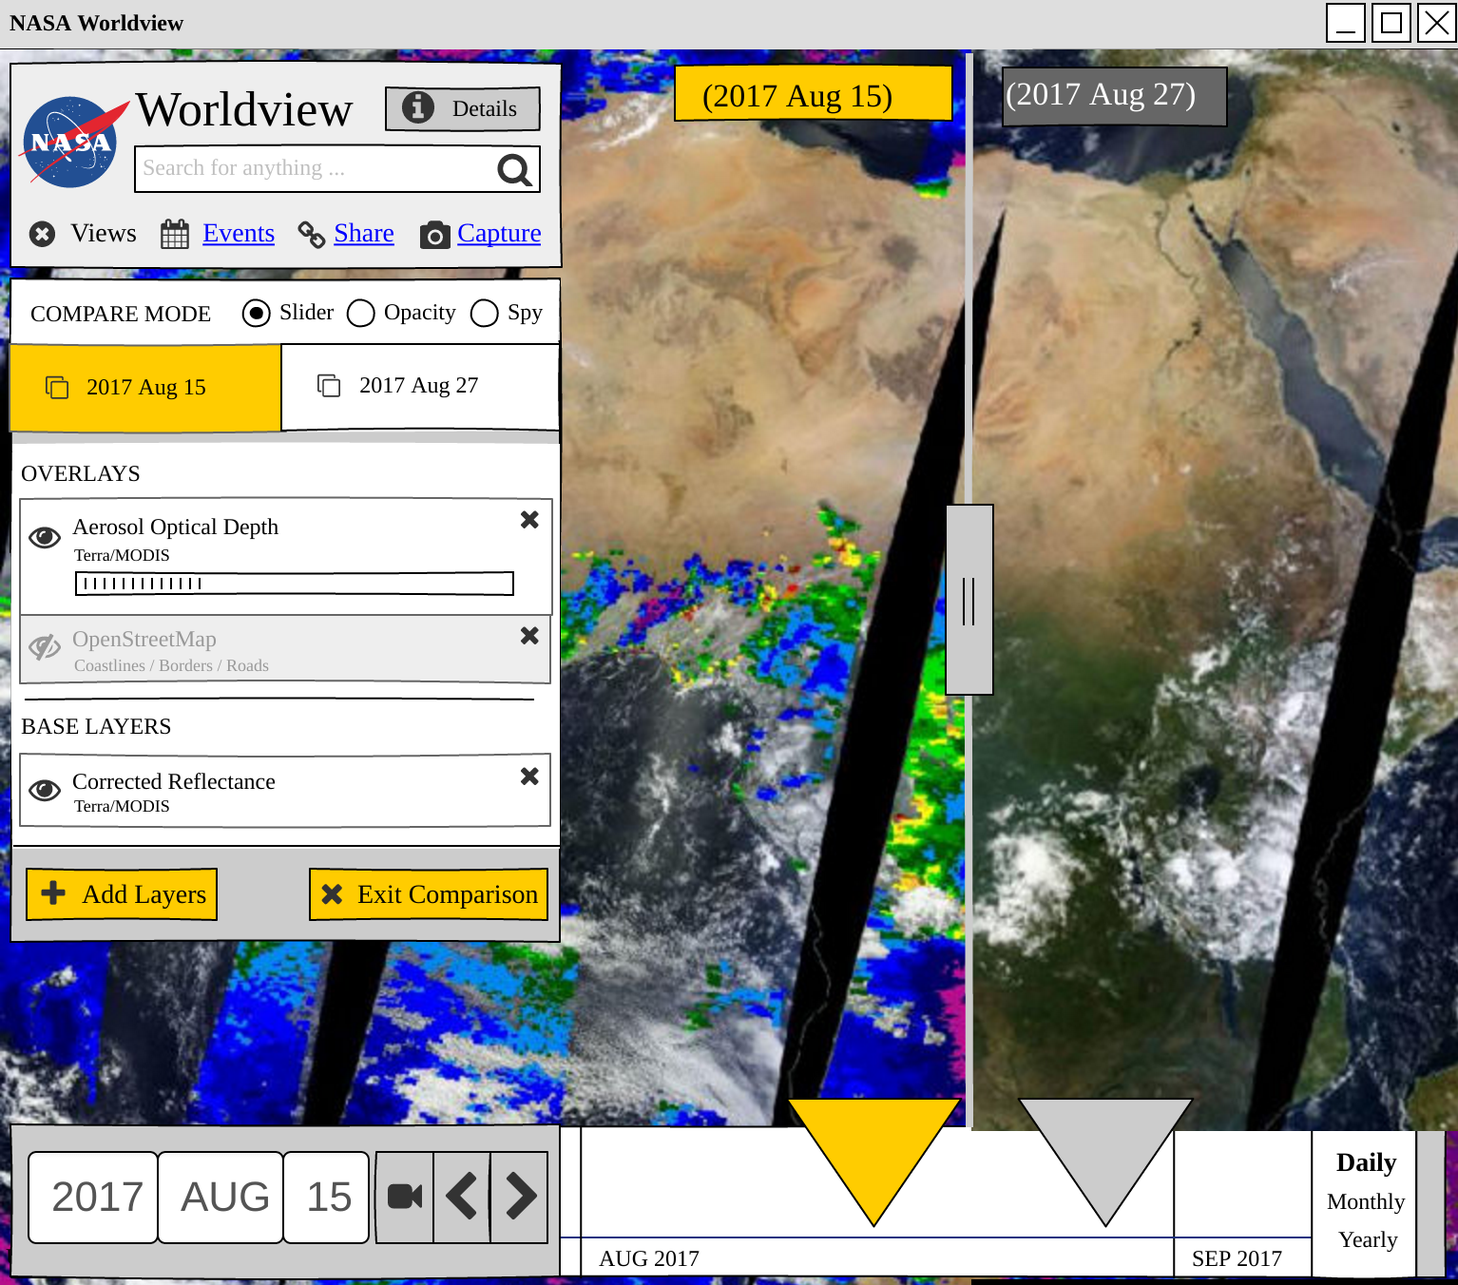
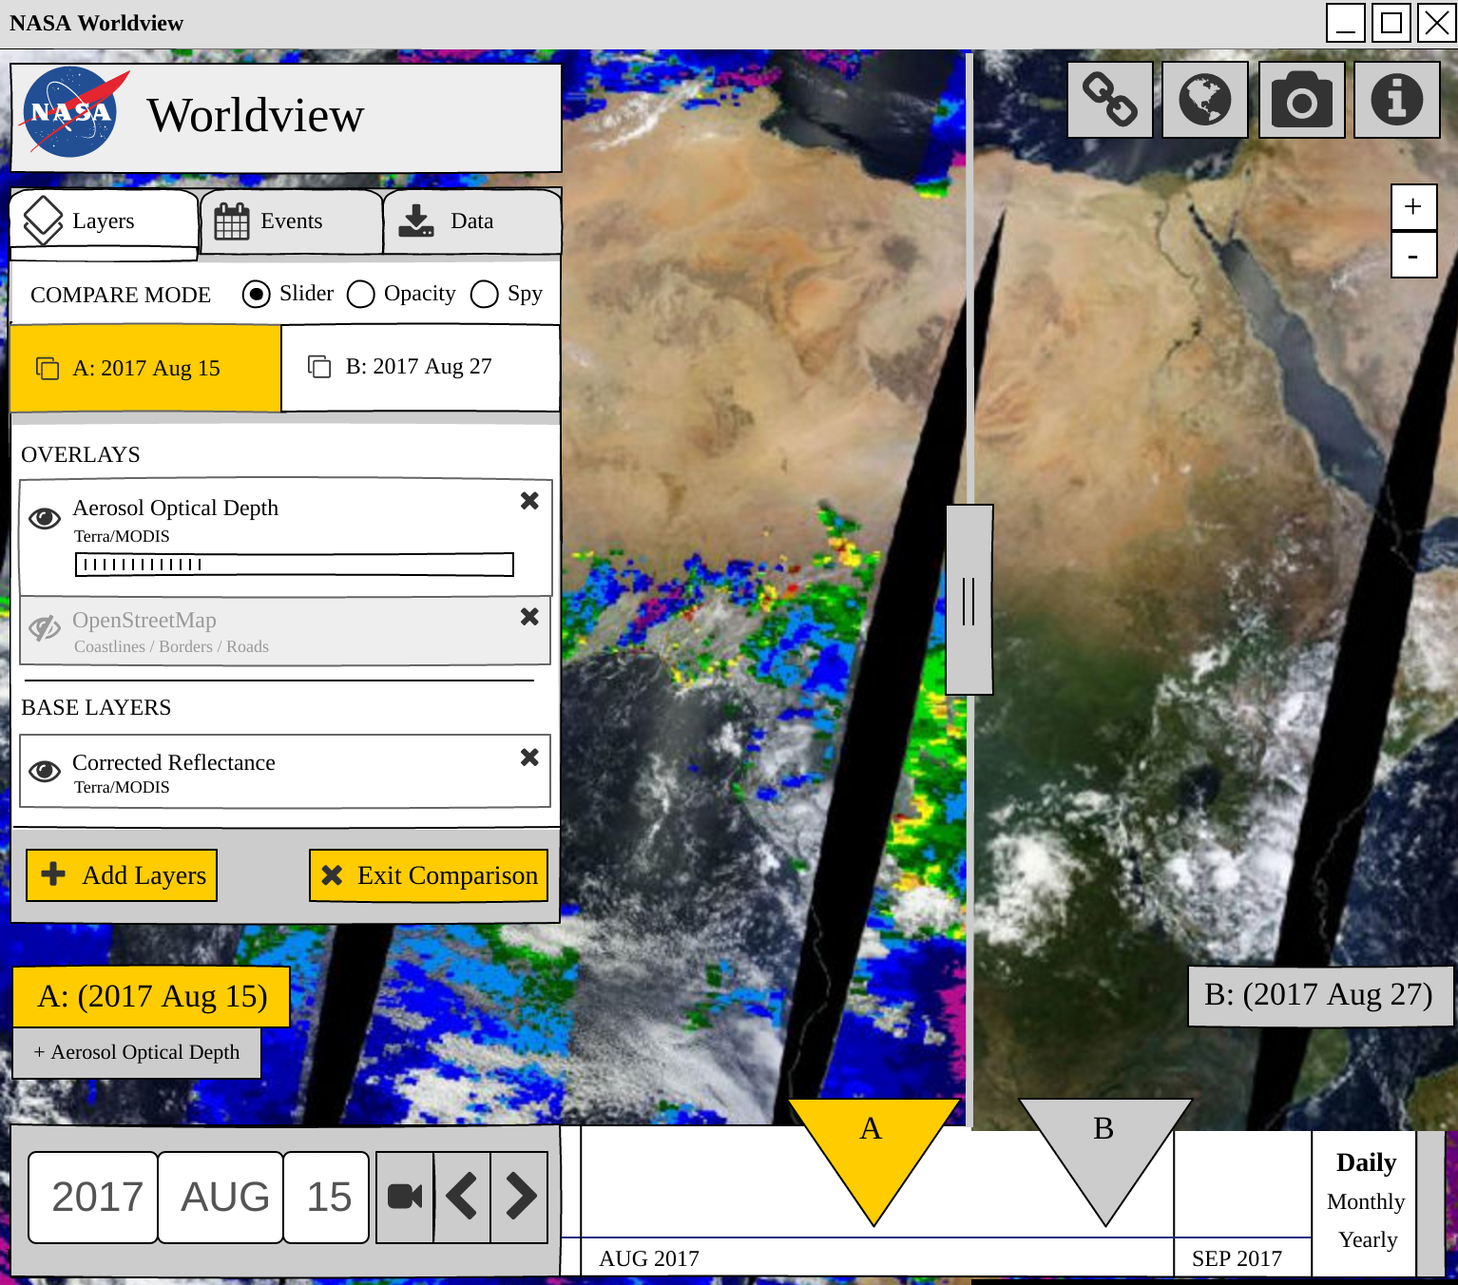
Update prototype to be viewed with current Worldview Interface

diff --git a/index.html b/index.html
@@ -1,19 +1,25 @@
-<!DOCTYPE html PUBLIC "-//W3C//DTD XHTML 1.0 Strict//EN" "DTD/xhtml1-strict.dtd"><html xmlns="http://www.w3.org/1999/xhtml" xmlns:p="http://www.evolus.vn/Namespace/Pencil" xmlns:html="http://www.w3.org/1999/xhtml"><head><meta http-equiv="Content-Type" content="text/html; charset=ISO-8859-1" /><title>wv-4</title><link rel="stylesheet" type="text/css" href="Resources/Style.css" /> </head><body><div id="leftpanel"><div class="ThumbContainer"><a href="#new_default_page" title="Go to page 'New Default'"><img src="pages/new_default.png" /><hr /><span class="number">1/9</span> -
-                                    New Default</a></div><div class="ThumbContainer"><a href="#new_page" title="Go to page 'New'"><img src="pages/new.png" /><hr /><span class="number">2/9</span> -
-                                    New</a></div><div class="ThumbContainer"><a href="#new_2_page" title="Go to page 'New 2'"><img src="pages/new_2.png" /><hr /><span class="number">3/9</span> -
-                                    New 2</a></div><div class="ThumbContainer"><a href="#new_opacity_page" title="Go to page 'New Opacity'"><img src="pages/new_opacity.png" /><hr /><span class="number">4/9</span> -
-                                    New Opacity</a></div><div class="ThumbContainer"><a href="#new_faded_page" title="Go to page 'New Faded'"><img src="pages/new_faded.png" /><hr /><span class="number">5/9</span> -
-                                    New Faded</a></div><div class="ThumbContainer"><a href="#new_faded_all_page" title="Go to page 'New Faded all'"><img src="pages/new_faded_all.png" /><hr /><span class="number">6/9</span> -
-                                    New Faded all</a></div><div class="ThumbContainer"><a href="#new_opacity_2_page" title="Go to page 'New Opacity 2'"><img src="pages/new_opacity_2.png" /><hr /><span class="number">7/9</span> -
-                                    New Opacity 2</a></div><div class="ThumbContainer"><a href="#new_2_default_page" title="Go to page 'New 2 Default'"><img src="pages/new_2_default.png" /><hr /><span class="number">8/9</span> -
-                                    New 2 Default</a></div><div class="ThumbContainer"><a href="#view2_proj_page" title="Go to page 'View2 Proj'"><img src="pages/view2_proj.png" /><hr /><span class="number">9/9</span> -
+<!DOCTYPE html PUBLIC "-//W3C//DTD XHTML 1.0 Strict//EN" "DTD/xhtml1-strict.dtd"><html xmlns="http://www.w3.org/1999/xhtml" xmlns:p="http://www.evolus.vn/Namespace/Pencil" xmlns:html="http://www.w3.org/1999/xhtml"><head><meta http-equiv="Content-Type" content="text/html; charset=ISO-8859-1" /><title>wv-4</title><link rel="stylesheet" type="text/css" href="Resources/Style.css" /> </head><body><div id="leftpanel"><div class="ThumbContainer"><a href="#new_default_page" title="Go to page 'New Default'"><img src="pages/new_default.png" /><hr /><span class="number">1/12</span> -
+                                    New Default</a></div><div class="ThumbContainer"><a href="#new_page" title="Go to page 'New'"><img src="pages/new.png" /><hr /><span class="number">2/12</span> -
+                                    New</a></div><div class="ThumbContainer"><a href="#new_2_page" title="Go to page 'New 2'"><img src="pages/new_2.png" /><hr /><span class="number">3/12</span> -
+                                    New 2</a></div><div class="ThumbContainer"><a href="#new_opacity_page" title="Go to page 'New Opacity'"><img src="pages/new_opacity.png" /><hr /><span class="number">4/12</span> -
+                                    New Opacity</a></div><div class="ThumbContainer"><a href="#new_faded_page" title="Go to page 'New Faded'"><img src="pages/new_faded.png" /><hr /><span class="number">5/12</span> -
+                                    New Faded</a></div><div class="ThumbContainer"><a href="#new_faded_all_page" title="Go to page 'New Faded all'"><img src="pages/new_faded_all.png" /><hr /><span class="number">6/12</span> -
+                                    New Faded all</a></div><div class="ThumbContainer"><a href="#new_opacity_2_page" title="Go to page 'New Opacity 2'"><img src="pages/new_opacity_2.png" /><hr /><span class="number">7/12</span> -
+                                    New Opacity 2</a></div><div class="ThumbContainer"><a href="#new_2_default_page" title="Go to page 'New 2 Default'"><img src="pages/new_2_default.png" /><hr /><span class="number">8/12</span> -
+                                    New 2 Default</a></div><div class="ThumbContainer"><a href="#new_2_split_default_page" title="Go to page 'New 2 Split Default'"><img src="pages/new_2_split_default.png" /><hr /><span class="number">9/12</span> -
+                                    New 2 Split Default</a></div><div class="ThumbContainer"><a href="#new_2_split_default_1_page" title="Go to page 'New 2 Split Default 1'"><img src="pages/new_2_split_default_1.png" /><hr /><span class="number">10/12</span> -
+                                    New 2 Split Default 1</a></div><div class="ThumbContainer"><a href="#new_2_default_1_page" title="Go to page 'New 2 Default (1)'"><img src="pages/new_2_default_1.png" /><hr /><span class="number">11/12</span> -
+                                    New 2 Default (1)</a></div><div class="ThumbContainer"><a href="#view2_proj_page" title="Go to page 'View2 Proj'"><img src="pages/view2_proj.png" /><hr /><span class="number">12/12</span> -
                                     View2 Proj</a></div></div><div id="main"><div class="Page" id="new_default_page"><div class="pageTitle">New Default<div class="MainNumber">
-                    Page 1/9</div></div><div class="ImageContainer"><img class="raster" style="max-width:767px" src="pages/new_default.png" usemap="#map_new_default" /></div><map name="map_new_default"><area shape="rect" coords="190,369,285,397" href="#new_page" title="Go to page 'New'" /></map></div><div class="Page" id="new_page"><div class="pageTitle">New<div class="MainNumber">
-                    Page 2/9</div></div><div class="ImageContainer"><img class="raster" style="max-width:767px" src="pages/new.png" usemap="#map_new" /></div><map name="map_new"><area shape="rect" coords="163,457,288,484" href="#new_default_page" title="Go to page 'New Default'" /><area shape="rect" coords="527.5,35.5,645.5,66.5" href="#new_2_page" title="Go to page 'New 2'" /><area shape="rect" coords="148,181,294.5,226.5" href="#new_2_page" title="Go to page 'New 2'" /><area shape="rect" coords="525.1636962890625,532.0986938476562,638.30078125,645.235778808594" href="#new_2_page" title="Go to page 'New 2'" /><area shape="rect" coords="182.50283813476562,157.3707733154297,239.984375,171.958038330078" href="#new_opacity_page" title="Go to page 'New Opacity'" /></map></div><div class="Page" id="new_2_page"><div class="pageTitle">New 2<div class="MainNumber">
-                    Page 3/9</div></div><div class="ImageContainer"><img class="raster" style="max-width:767px" src="pages/new_2.png" usemap="#map_new_2" /></div><map name="map_new_2"><area shape="rect" coords="163,396,288,425" href="#new_2_default_page" title="Go to page 'New 2 Default'" /><area shape="rect" coords="355,34.5,501,63.5" href="#new_page" title="Go to page 'New'" /><area shape="rect" coords="5,180,150.5,228" href="#new_page" title="Go to page 'New'" /><area shape="rect" coords="182.50283813476562,157.3707733154297,239.984375,171.958038330078" href="#new_opacity_2_page" title="Go to page 'New Opacity 2'" /><area shape="rect" coords="403.1636962890625,532.0986938476562,516.30078125,645.235778808594" href="#new_page" title="Go to page 'New'" /></map></div><div class="Page" id="new_opacity_page"><div class="pageTitle">New Opacity<div class="MainNumber">
-                    Page 4/9</div></div><div class="ImageContainer"><img class="raster" style="max-width:767px" src="pages/new_opacity.png" usemap="#map_new_opacity" /></div><map name="map_new_opacity"><area shape="rect" coords="619.5,498.5,649.5,532.5" href="#new_faded_all_page" title="Go to page 'New Faded all'" /><area shape="rect" coords="515.5,496.5,545.5,530.5" href="#new_faded_page" title="Go to page 'New Faded'" /><area shape="rect" coords="656,498,746,535" href="#new_opacity_2_page" title="Go to page 'New Opacity 2'" /><area shape="rect" coords="525.1636962890625,532.0986938476562,638.30078125,645.235778808594" href="#new_opacity_2_page" title="Go to page 'New Opacity 2'" /><area shape="rect" coords="163,457,288,485" href="#new_default_page" title="Go to page 'New Default'" /><area shape="rect" coords="148,181,294.5,227" href="#new_opacity_2_page" title="Go to page 'New Opacity 2'" /><area shape="rect" coords="127.50284576416016,157.3707733154297,175.65625,171.958038330078" href="#new_page" title="Go to page 'New'" /></map></div><div class="Page" id="new_faded_page"><div class="pageTitle">New Faded<div class="MainNumber">
-                    Page 5/9</div></div><div class="ImageContainer"><img class="raster" style="max-width:767px" src="pages/new_faded.png" usemap="#map_new_faded" /></div><map name="map_new_faded"><area shape="rect" coords="620.5,500.5,650.5,534.5" href="#new_faded_all_page" title="Go to page 'New Faded all'" /><area shape="rect" coords="425.5,500.5,455.5,534.5" href="#new_opacity_page" title="Go to page 'New Opacity'" /><area shape="rect" coords="525.1636962890625,532.0986938476562,638.30078125,645.235778808594" href="#new_opacity_2_page" title="Go to page 'New Opacity 2'" /><area shape="rect" coords="656,498,746,535" href="#new_opacity_2_page" title="Go to page 'New Opacity 2'" /><area shape="rect" coords="163,457,288,485" href="#new_default_page" title="Go to page 'New Default'" /><area shape="rect" coords="148,181,294.5,227" href="#new_opacity_2_page" title="Go to page 'New Opacity 2'" /><area shape="rect" coords="127.50284576416016,157.3707733154297,175.65625,171.958038330078" href="#new_page" title="Go to page 'New'" /></map></div><div class="Page" id="new_faded_all_page"><div class="pageTitle">New Faded all<div class="MainNumber">
-                    Page 6/9</div></div><div class="ImageContainer"><img class="raster" style="max-width:767px" src="pages/new_faded_all.png" usemap="#map_new_faded_all" /></div><map name="map_new_faded_all"><area shape="rect" coords="521.5,500.5,551.5,534.5" href="#new_faded_page" title="Go to page 'New Faded'" /><area shape="rect" coords="525.1636962890625,532.0986938476562,638.30078125,645.235778808594" href="#new_opacity_2_page" title="Go to page 'New Opacity 2'" /><area shape="rect" coords="425.5,500.5,455.5,534.5" href="#new_opacity_page" title="Go to page 'New Opacity'" /><area shape="rect" coords="656,498,746,535" href="#new_opacity_2_page" title="Go to page 'New Opacity 2'" /><area shape="rect" coords="163,457,288,485" href="#new_default_page" title="Go to page 'New Default'" /><area shape="rect" coords="148,181,294.5,227" href="#new_opacity_2_page" title="Go to page 'New Opacity 2'" /><area shape="rect" coords="127.50284576416016,157.3707733154297,175.65625,171.958038330078" href="#new_page" title="Go to page 'New'" /></map></div><div class="Page" id="new_opacity_2_page"><div class="pageTitle">New Opacity 2<div class="MainNumber">
-                    Page 7/9</div></div><div class="ImageContainer"><img class="raster" style="max-width:767px" src="pages/new_opacity_2.png" usemap="#map_new_opacity_2" /></div><map name="map_new_opacity_2"><area shape="rect" coords="163,397,288,425" href="#new_2_default_page" title="Go to page 'New 2 Default'" /><area shape="rect" coords="5,180,151,227" href="#new_opacity_page" title="Go to page 'New Opacity'" /><area shape="rect" coords="127.50284576416016,157.3707733154297,175.65625,171.958038330078" href="#new_2_page" title="Go to page 'New 2'" /><area shape="rect" coords="403.1636962890625,532.0986938476562,516.30078125,645.235778808594" href="#new_opacity_page" title="Go to page 'New Opacity'" /><area shape="rect" coords="525.1636962890625,532.0986938476562,638.30078125,645.235778808594" href="#new_2_page" title="Go to page 'New 2'" /><area shape="rect" coords="315,498,405,535" href="#new_opacity_page" title="Go to page 'New Opacity'" /></map></div><div class="Page" id="new_2_default_page"><div class="pageTitle">New 2 Default<div class="MainNumber">
-                    Page 8/9</div></div><div class="ImageContainer"><img class="raster" style="max-width:767px" src="pages/new_2_default.png" usemap="#map_new_2_default" /></div><map name="map_new_2_default"><area shape="rect" coords="190,311,285,339" href="#new_page" title="Go to page 'New'" /><area shape="rect" coords="525.1636962890625,532.0986938476562,638.30078125,645.235778808594" href="#new_2_page" title="Go to page 'New 2'" /></map></div><div class="Page" id="view2_proj_page"><div class="pageTitle">View2 Proj<div class="MainNumber">
-                    Page 9/9</div></div><div class="ImageContainer"><img class="raster" style="max-width:767px" src="pages/view2_proj.png" usemap="#map_view2_proj" /></div><map name="map_view2_proj"></map></div></div></body></html>
+                    Page 1/12</div></div><div class="ImageContainer"><img class="raster" style="max-width:767px" src="pages/new_default.png" usemap="#map_new_default" /></div><map name="map_new_default"><area shape="rect" coords="190,359,285,387" href="#new_page" title="Go to page 'New'" /></map></div><div class="Page" id="new_page"><div class="pageTitle">New<div class="MainNumber">
+                    Page 2/12</div></div><div class="ImageContainer"><img class="raster" style="max-width:767px" src="pages/new.png" usemap="#map_new" /></div><map name="map_new"><area shape="rect" coords="163,447,288,475" href="#new_default_page" title="Go to page 'New Default'" /><area shape="rect" coords="148,170,295,216.5" href="#new_2_page" title="Go to page 'New 2'" /><area shape="rect" coords="525.1636962890625,532.0986938476562,638.30078125,645.235778808594" href="#new_2_page" title="Go to page 'New 2'" /><area shape="rect" coords="182.50283813476562,147.3707733154297,239.984375,161.958038330078" href="#new_opacity_page" title="Go to page 'New Opacity'" /></map></div><div class="Page" id="new_2_page"><div class="pageTitle">New 2<div class="MainNumber">
+                    Page 3/12</div></div><div class="ImageContainer"><img class="raster" style="max-width:767px" src="pages/new_2.png" usemap="#map_new_2" /></div><map name="map_new_2"><area shape="rect" coords="163,387,288,414" href="#new_2_default_1_page" title="Go to page 'New 2 Default (1)'" /><area shape="rect" coords="5,170,150.5,217" href="#new_page" title="Go to page 'New'" /><area shape="rect" coords="182.50283813476562,147.3707733154297,239.984375,161.958038330078" href="#new_opacity_2_page" title="Go to page 'New Opacity 2'" /><area shape="rect" coords="403.1636962890625,532.0986938476562,516.30078125,645.235778808594" href="#new_page" title="Go to page 'New'" /></map></div><div class="Page" id="new_opacity_page"><div class="pageTitle">New Opacity<div class="MainNumber">
+                    Page 4/12</div></div><div class="ImageContainer"><img class="raster" style="max-width:767px" src="pages/new_opacity.png" usemap="#map_new_opacity" /></div><map name="map_new_opacity"><area shape="rect" coords="619.5,498.5,649.5,532.5" href="#new_faded_all_page" title="Go to page 'New Faded all'" /><area shape="rect" coords="515.5,496.5,545.5,530.5" href="#new_faded_page" title="Go to page 'New Faded'" /><area shape="rect" coords="656,499,746,535" href="#new_opacity_2_page" title="Go to page 'New Opacity 2'" /><area shape="rect" coords="525.1636962890625,532.0986938476562,638.30078125,645.235778808594" href="#new_opacity_2_page" title="Go to page 'New Opacity 2'" /><area shape="rect" coords="163,447,288,474" href="#new_default_page" title="Go to page 'New Default'" /><area shape="rect" coords="148,170,295,216.5" href="#new_opacity_2_page" title="Go to page 'New Opacity 2'" /><area shape="rect" coords="127.50284576416016,147.3707733154297,175.65625,161.958038330078" href="#new_page" title="Go to page 'New'" /></map></div><div class="Page" id="new_faded_page"><div class="pageTitle">New Faded<div class="MainNumber">
+                    Page 5/12</div></div><div class="ImageContainer"><img class="raster" style="max-width:767px" src="pages/new_faded.png" usemap="#map_new_faded" /></div><map name="map_new_faded"><area shape="rect" coords="620.5,500.5,650.5,534.5" href="#new_faded_all_page" title="Go to page 'New Faded all'" /><area shape="rect" coords="425.5,500.5,455.5,534.5" href="#new_opacity_page" title="Go to page 'New Opacity'" /><area shape="rect" coords="525.1636962890625,532.0986938476562,638.30078125,645.235778808594" href="#new_opacity_2_page" title="Go to page 'New Opacity 2'" /><area shape="rect" coords="656,499,746,535" href="#new_opacity_2_page" title="Go to page 'New Opacity 2'" /><area shape="rect" coords="163,446,288,474" href="#new_default_page" title="Go to page 'New Default'" /><area shape="rect" coords="148,171,295,217" href="#new_opacity_2_page" title="Go to page 'New Opacity 2'" /><area shape="rect" coords="127.50284576416016,147.3707733154297,175.65625,161.958038330078" href="#new_page" title="Go to page 'New'" /></map></div><div class="Page" id="new_faded_all_page"><div class="pageTitle">New Faded all<div class="MainNumber">
+                    Page 6/12</div></div><div class="ImageContainer"><img class="raster" style="max-width:767px" src="pages/new_faded_all.png" usemap="#map_new_faded_all" /></div><map name="map_new_faded_all"><area shape="rect" coords="521.5,500.5,551.5,534.5" href="#new_faded_page" title="Go to page 'New Faded'" /><area shape="rect" coords="525.1636962890625,532.0986938476562,638.30078125,645.235778808594" href="#new_opacity_2_page" title="Go to page 'New Opacity 2'" /><area shape="rect" coords="425.5,500.5,455.5,534.5" href="#new_opacity_page" title="Go to page 'New Opacity'" /><area shape="rect" coords="656,499,746,535" href="#new_opacity_2_page" title="Go to page 'New Opacity 2'" /><area shape="rect" coords="163,447,288,474" href="#new_default_page" title="Go to page 'New Default'" /><area shape="rect" coords="148,170,295,216.5" href="#new_opacity_2_page" title="Go to page 'New Opacity 2'" /><area shape="rect" coords="127.50284576416016,147.3707733154297,175.65625,161.958038330078" href="#new_page" title="Go to page 'New'" /></map></div><div class="Page" id="new_opacity_2_page"><div class="pageTitle">New Opacity 2<div class="MainNumber">
+                    Page 7/12</div></div><div class="ImageContainer"><img class="raster" style="max-width:767px" src="pages/new_opacity_2.png" usemap="#map_new_opacity_2" /></div><map name="map_new_opacity_2"><area shape="rect" coords="163,386,288,414" href="#new_2_default_page" title="Go to page 'New 2 Default'" /><area shape="rect" coords="5,171,151,218" href="#new_opacity_page" title="Go to page 'New Opacity'" /><area shape="rect" coords="127.50284576416016,147.3707733154297,175.65625,161.958038330078" href="#new_2_page" title="Go to page 'New 2'" /><area shape="rect" coords="403.1636962890625,532.0986938476562,516.30078125,645.235778808594" href="#new_opacity_page" title="Go to page 'New Opacity'" /><area shape="rect" coords="525.1636962890625,532.0986938476562,638.30078125,645.235778808594" href="#new_2_page" title="Go to page 'New 2'" /><area shape="rect" coords="315,498,405,536" href="#new_opacity_page" title="Go to page 'New Opacity'" /></map></div><div class="Page" id="new_2_default_page"><div class="pageTitle">New 2 Default<div class="MainNumber">
+                    Page 8/12</div></div><div class="ImageContainer"><img class="raster" style="max-width:767px" src="pages/new_2_default.png" usemap="#map_new_2_default" /></div><map name="map_new_2_default"><area shape="rect" coords="190,300,285,329" href="#new_2_split_default_1_page" title="Go to page 'New 2 Split Default 1'" /><area shape="rect" coords="525.1636962890625,532.0986938476562,638.30078125,645.235778808594" href="#new_2_page" title="Go to page 'New 2'" /></map></div><div class="Page" id="new_2_split_default_page"><div class="pageTitle">New 2 Split Default<div class="MainNumber">
+                    Page 9/12</div></div><div class="ImageContainer"><img class="raster" style="max-width:767px" src="pages/new_2_split_default.png" usemap="#map_new_2_split_default" /></div><map name="map_new_2_split_default"><area shape="rect" coords="163,387,288,414" href="#new_2_default_page" title="Go to page 'New 2 Default'" /><area shape="rect" coords="5,170,150.5,217" href="#new_2_split_default_1_page" title="Go to page 'New 2 Split Default 1'" /><area shape="rect" coords="182.50283813476562,147.3707733154297,239.984375,161.958038330078" href="#new_opacity_2_page" title="Go to page 'New Opacity 2'" /><area shape="rect" coords="403.1636962890625,532.0986938476562,516.30078125,645.235778808594" href="#new_2_split_default_1_page" title="Go to page 'New 2 Split Default 1'" /></map></div><div class="Page" id="new_2_split_default_1_page"><div class="pageTitle">New 2 Split Default 1<div class="MainNumber">
+                    Page 10/12</div></div><div class="ImageContainer"><img class="raster" style="max-width:767px" src="pages/new_2_split_default_1.png" usemap="#map_new_2_split_default_1" /></div><map name="map_new_2_split_default_1"><area shape="rect" coords="163,387,288,414" href="#new_2_default_page" title="Go to page 'New 2 Default'" /><area shape="rect" coords="14,387,114,414" href="#new_page" title="Go to page 'New'" /><area shape="rect" coords="525.1636962890625,532.0986938476562,638.30078125,645.235778808594" href="#new_2_split_default_page" title="Go to page 'New 2 Split Default'" /><area shape="rect" coords="148,170,295,216.5" href="#new_2_split_default_page" title="Go to page 'New 2 Split Default'" /><area shape="rect" coords="127.50284576416016,147.3707733154297,175.65625,161.958038330078" href="#new_page" title="Go to page 'New'" /></map></div><div class="Page" id="new_2_default_1_page"><div class="pageTitle">New 2 Default (1)<div class="MainNumber">
+                    Page 11/12</div></div><div class="ImageContainer"><img class="raster" style="max-width:767px" src="pages/new_2_default_1.png" usemap="#map_new_2_default_1" /></div><map name="map_new_2_default_1"><area shape="rect" coords="190,300,285,329" href="#new_2_page" title="Go to page 'New 2'" /><area shape="rect" coords="525.1636962890625,532.0986938476562,638.30078125,645.235778808594" href="#new_2_page" title="Go to page 'New 2'" /></map></div><div class="Page" id="view2_proj_page"><div class="pageTitle">View2 Proj<div class="MainNumber">
+                    Page 12/12</div></div><div class="ImageContainer"><img class="raster" style="max-width:767px" src="pages/view2_proj.png" usemap="#map_view2_proj" /></div><map name="map_view2_proj"></map></div></div></body></html>
